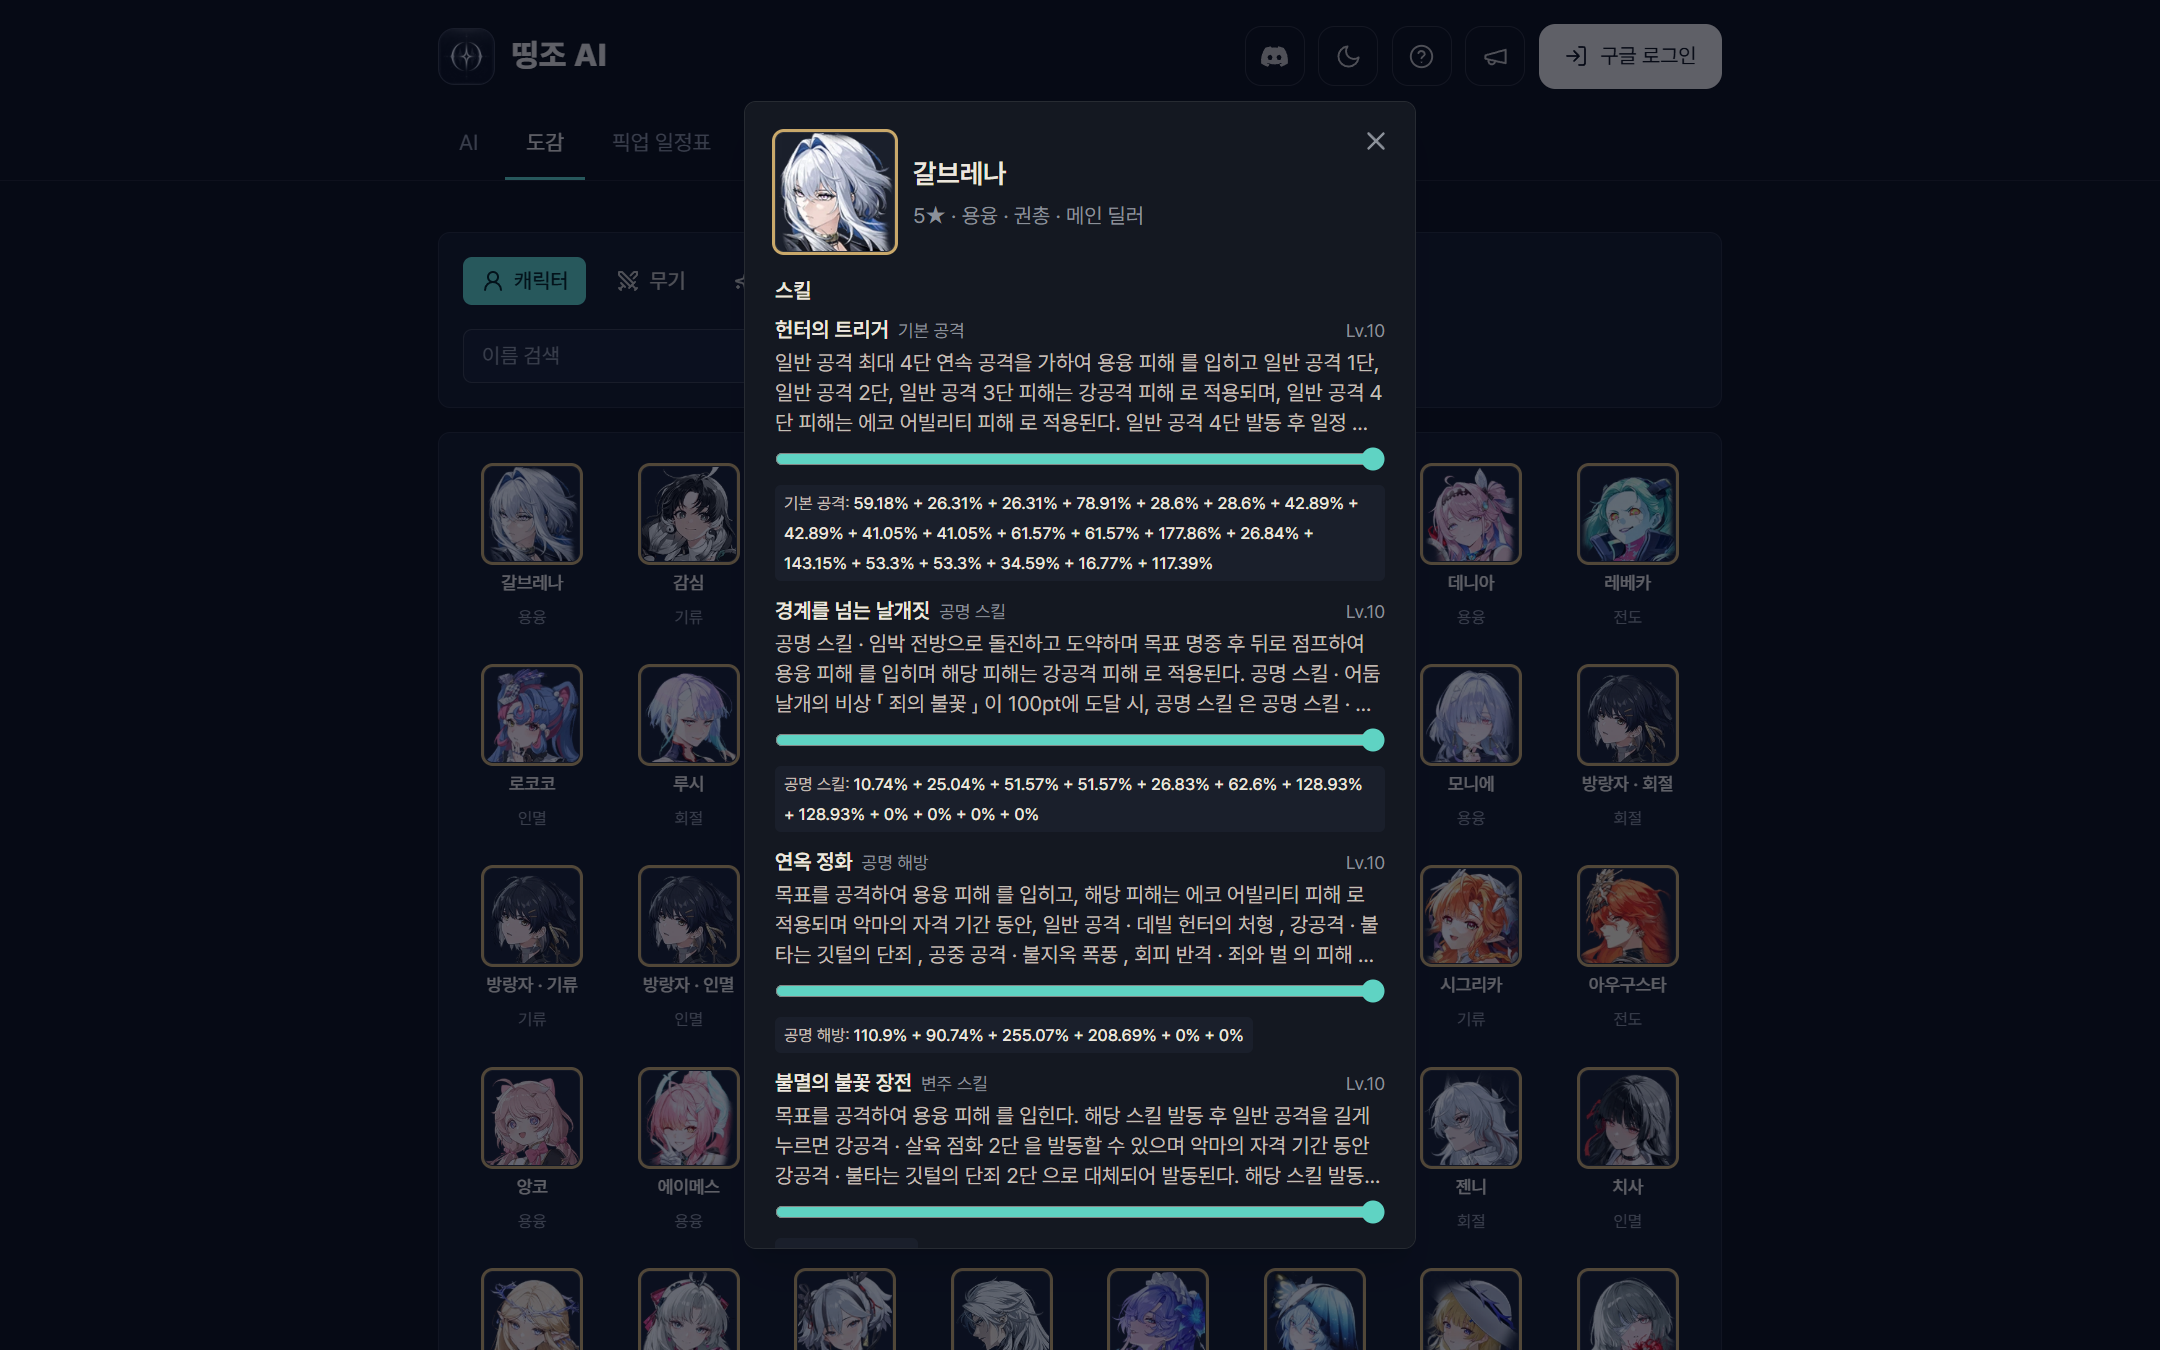
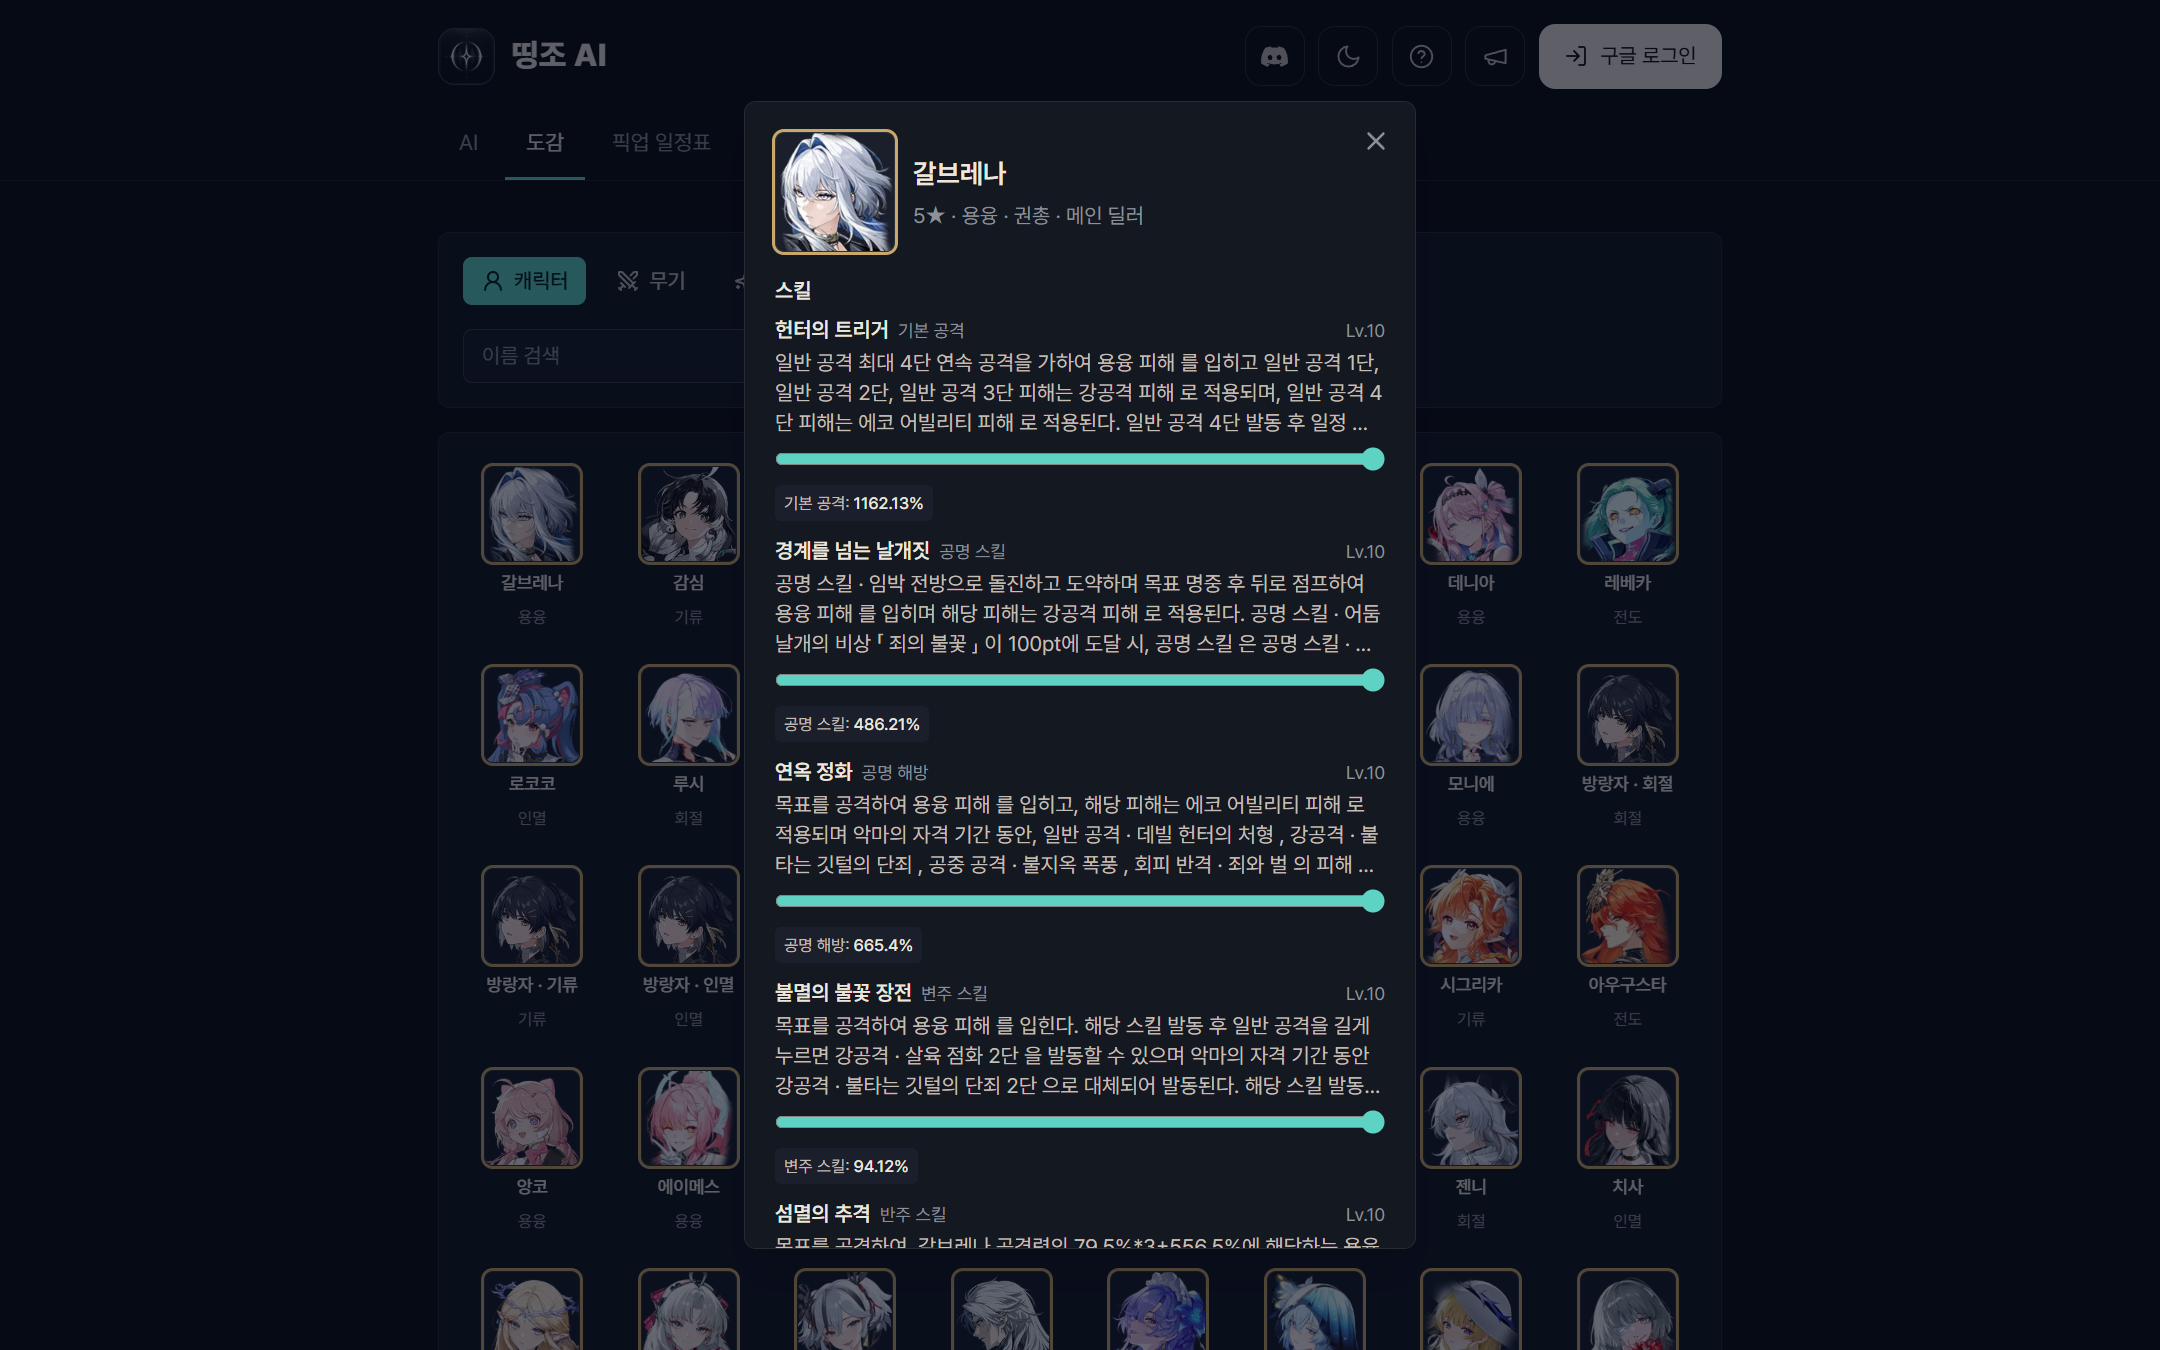
feat: sum same-label skill multipliers into one total in codex detail
Skill damage chips now show one total per label (e.g. 기본 공격: 1162.13%
= all hits summed) instead of a truncated per-hit list. Falls back to
"a + b" listing if a non-percent value ever appears. Guide screenshots
refreshed.

Changed region(s): [[0.3412, 0.3422, 0.6514, 0.9333]]

diff --git a/frontend/src/components/Codex.tsx b/frontend/src/components/Codex.tsx
@@ -7,7 +7,7 @@ import { getCodexEchoes, getCodexResonators, getCodexWeapons, getSonataSets } fr
 import { weaponDescAtRank } from "@/lib/build";
 import { API_BASE_URL } from "@/lib/constants";
 import { useLanguage } from "@/lib/i18n";
-import type { CodexEcho, CodexResonator, CodexWeapon, Role, SonataSet } from "@/lib/types";
+import type { CodexEcho, CodexResonator, CodexSkillDamage, CodexWeapon, Role, SonataSet } from "@/lib/types";
 
 type SubTab = "resonators" | "weapons" | "echoes";
 
@@ -47,6 +47,30 @@ function imageSrc(path?: string | null): string | undefined {
   if (!path) return undefined;
   // encore.moe images are absolute URLs; local cached assets are /catalog/... paths.
   return /^https?:\/\//.test(path) ? path : `${API_BASE_URL}${path}`;
+}
+
+/** 같은 라벨(예: "기본 공격")의 배율 항목들을 합산해 총 배율 하나로 표시(전 히트 합). 퍼센트가 아닌 값이 섞이면 합산 대신 "a + b"로 나열. */
+function groupSkillDamage(damage: CodexSkillDamage[], level: number): { label: string; value: string }[] {
+  const order: string[] = [];
+  const byLabel = new Map<string, string[]>();
+  for (const d of damage) {
+    const label = (d.name || d.type) ?? "";
+    const v = d.rates[Math.min(level - 1, d.rates.length - 1)] ?? d.rates[d.rates.length - 1];
+    if (v == null) continue;
+    if (!byLabel.has(label)) {
+      byLabel.set(label, []);
+      order.push(label);
+    }
+    byLabel.get(label)!.push(v);
+  }
+  return order.map((label) => {
+    const values = byLabel.get(label)!;
+    const nums = values.map((v) => (/^\d+(\.\d+)?%$/.test(v.trim()) ? Number.parseFloat(v) : null));
+    const value = nums.every((n): n is number => n != null)
+      ? `${Number(nums.reduce((a, b) => a + b, 0).toFixed(2))}%`
+      : values.join(" + ");
+    return { label, value };
+  });
 }
 
 function subTabClass(active: boolean): string {
@@ -696,12 +720,11 @@ export function ResonatorDetail({
                       aria-label={`${stripTags(skill.SkillName ?? "스킬")} 레벨`}
                     />
                     <div className="mt-1 flex flex-wrap gap-1">
-                      {skill.damage.slice(0, 8).map((d, di) => (
-                        <span key={di} className="rounded bg-[var(--surface-2)] px-1.5 py-0.5 text-[11px] text-[var(--fg-soft)]">
-                          {(d.name || d.type) ?? ""}: <span className="font-medium text-[var(--fg)]">{d.rates[Math.min(skillLvOf(index) - 1, d.rates.length - 1)] ?? d.rates[d.rates.length - 1]}</span>
+                      {groupSkillDamage(skill.damage, skillLvOf(index)).map((g, gi) => (
+                        <span key={gi} className="rounded bg-[var(--surface-2)] px-1.5 py-0.5 text-[11px] text-[var(--fg-soft)]">
+                          {g.label}: <span className="font-medium text-[var(--fg)]">{g.value}</span>
                         </span>
                       ))}
-                      {skill.damage.length > 8 ? <span className="px-1 text-[11px] text-[var(--muted)]">외 {skill.damage.length - 8}</span> : null}
                     </div>
                   </>
                 ) : null}